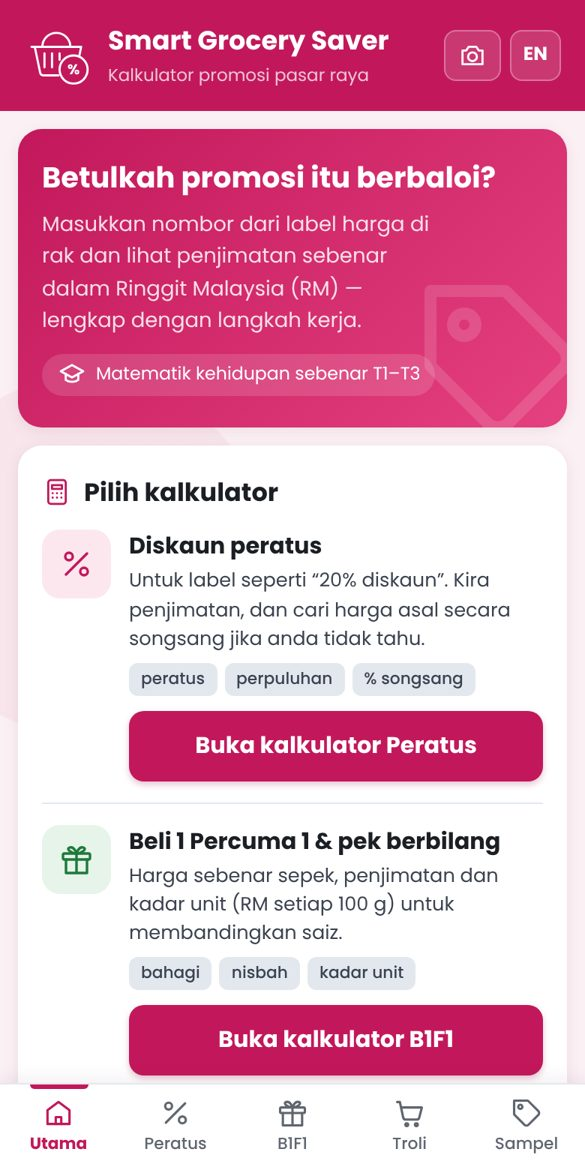
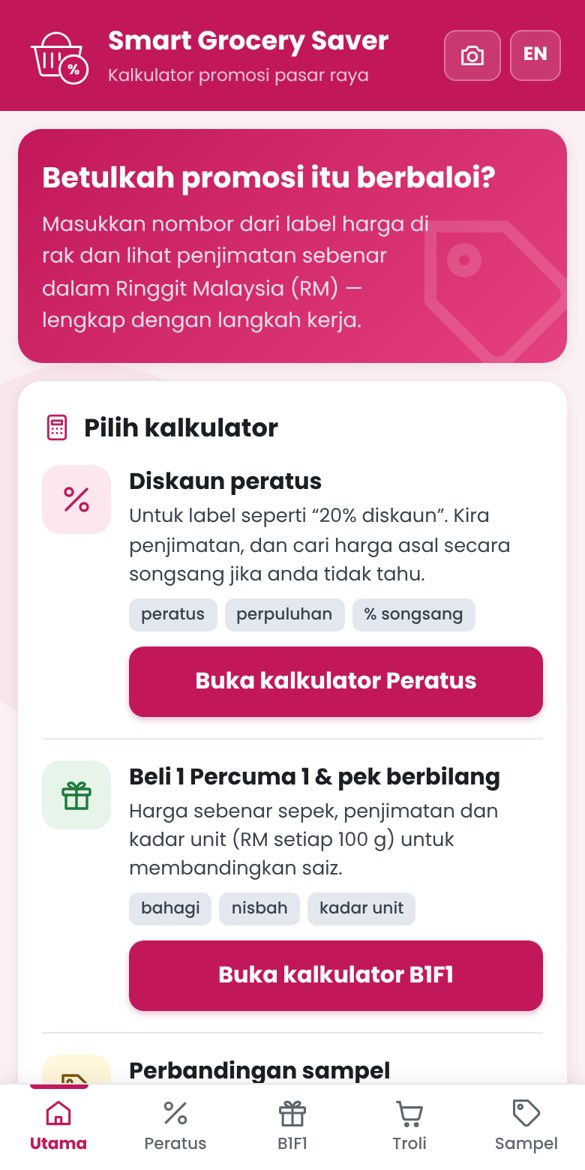
Tukar nombor WhatsApp derma; buang label Tingkatan 1-3 di halaman utama

diff --git a/docs/app/index.html b/docs/app/index.html
@@ -319,7 +319,6 @@
     <section class="kad hero">
       <h2 data-t="heroTajuk"></h2>
       <p data-t="heroTeks"></p>
-      <div class="chip-hero"><span data-ik="sekolah"></span><span data-t="heroChip"></span></div>
       <svg class="hiasan" viewBox="0 0 24 24" fill="none" stroke="currentColor" stroke-width="1.6" stroke-linecap="round" stroke-linejoin="round"><path d="M20.6 13.4l-7.2 7.2a2 2 0 0 1-2.8 0L3 13V3h10l7.6 7.6a2 2 0 0 1 0 2.8z"/><circle cx="7.5" cy="7.5" r="1.5"/></svg>
     </section>
 
@@ -542,7 +541,7 @@
   <div class="kotak-p">
     <div class="maklumat">
       <span data-t="dibangunkan"></span><br><b>Nur Ibtisam Farhana</b><br>
-      <a href="https://wa.me/60193002591" target="_blank" rel="noopener"><span data-ik="telefon"></span><span>019-300 2591 (WhatsApp)</span></a>
+      <a href="https://wa.me/601154229430" target="_blank" rel="noopener"><span data-ik="telefon"></span><span>011-5422 9430 (WhatsApp)</span></a>
     </div>
     <button class="btn-derma" onclick="$('modalDerma').classList.remove('tersembunyi')"><span data-ik="hati"></span><span data-t="derma"></span></button>
   </div>
@@ -611,7 +610,7 @@
     <p class="kecil" style="margin:0" data-t="dermaCara"></p>
     <p style="margin:8px 0 0;font-weight:600;color:var(--teks)"><span data-t="dermaKepada"></span> Nur Ibtisam Farhana</p>
     <img src="../derma-qr.png" alt="QR DuitNow" loading="lazy">
-    <a class="btn wa" href="https://wa.me/60193002591?text=Salam%2C%20saya%20ingin%20menderma%20untuk%20app%20Smart%20Grocery%20Saver." target="_blank" rel="noopener"><span data-ik="wa"></span><span data-t="hubungiWa"></span></a>
+    <a class="btn wa" href="https://wa.me/601154229430?text=Salam%2C%20saya%20ingin%20menderma%20untuk%20app%20Smart%20Grocery%20Saver." target="_blank" rel="noopener"><span data-ik="wa"></span><span data-t="hubungiWa"></span></a>
     <button class="btn sekunder" onclick="tutup('modalDerma')" data-t="tutup"></button>
   </div>
 </div>

diff --git a/docs/index.html b/docs/index.html
@@ -224,7 +224,7 @@ footer{text-align:center;color:var(--kelabu);font-size:.85rem;padding:30px 20px 
       <div class="m">
         <b style="color:var(--teks);font-size:1rem">Sokong app ini ❤</b><br>
         Smart Grocery Saver adalah percuma. Jika ia membantu anda atau murid anda, sumbangan melalui DuitNow QR membantu penyelenggaraan dan ciri baharu.<br><b style="color:var(--teks)">Derma kepada: Nur Ibtisam Farhana</b><br>
-        <a class="btn-wa" href="https://wa.me/60193002591?text=Salam%2C%20saya%20ingin%20bertanya%20tentang%20app%20Smart%20Grocery%20Saver." target="_blank" rel="noopener"><svg class="ik" style="width:18px;height:18px"><use href="#i-wa"/></svg>019-300 2591 (WhatsApp)</a>
+        <a class="btn-wa" href="https://wa.me/601154229430?text=Salam%2C%20saya%20ingin%20bertanya%20tentang%20app%20Smart%20Grocery%20Saver." target="_blank" rel="noopener"><svg class="ik" style="width:18px;height:18px"><use href="#i-wa"/></svg>011-5422 9430 (WhatsApp)</a>
       </div>
     </div>
   </div>

diff --git a/docs/app/sw.js b/docs/app/sw.js
@@ -1,5 +1,5 @@
 // Smart Grocery Saver — simpan fail app untuk kegunaan luar talian (cth. di pasar raya tanpa liputan).
-const CACHE = 'sgs-v1.1.0';
+const CACHE = 'sgs-v1.1.1';
 const FAIL = ['./', './index.html', './manifest.json', './ikon-192.png', './ikon-512.png', './ikon-180.png', '../derma-qr.png'];
 
 self.addEventListener('install', e => {
